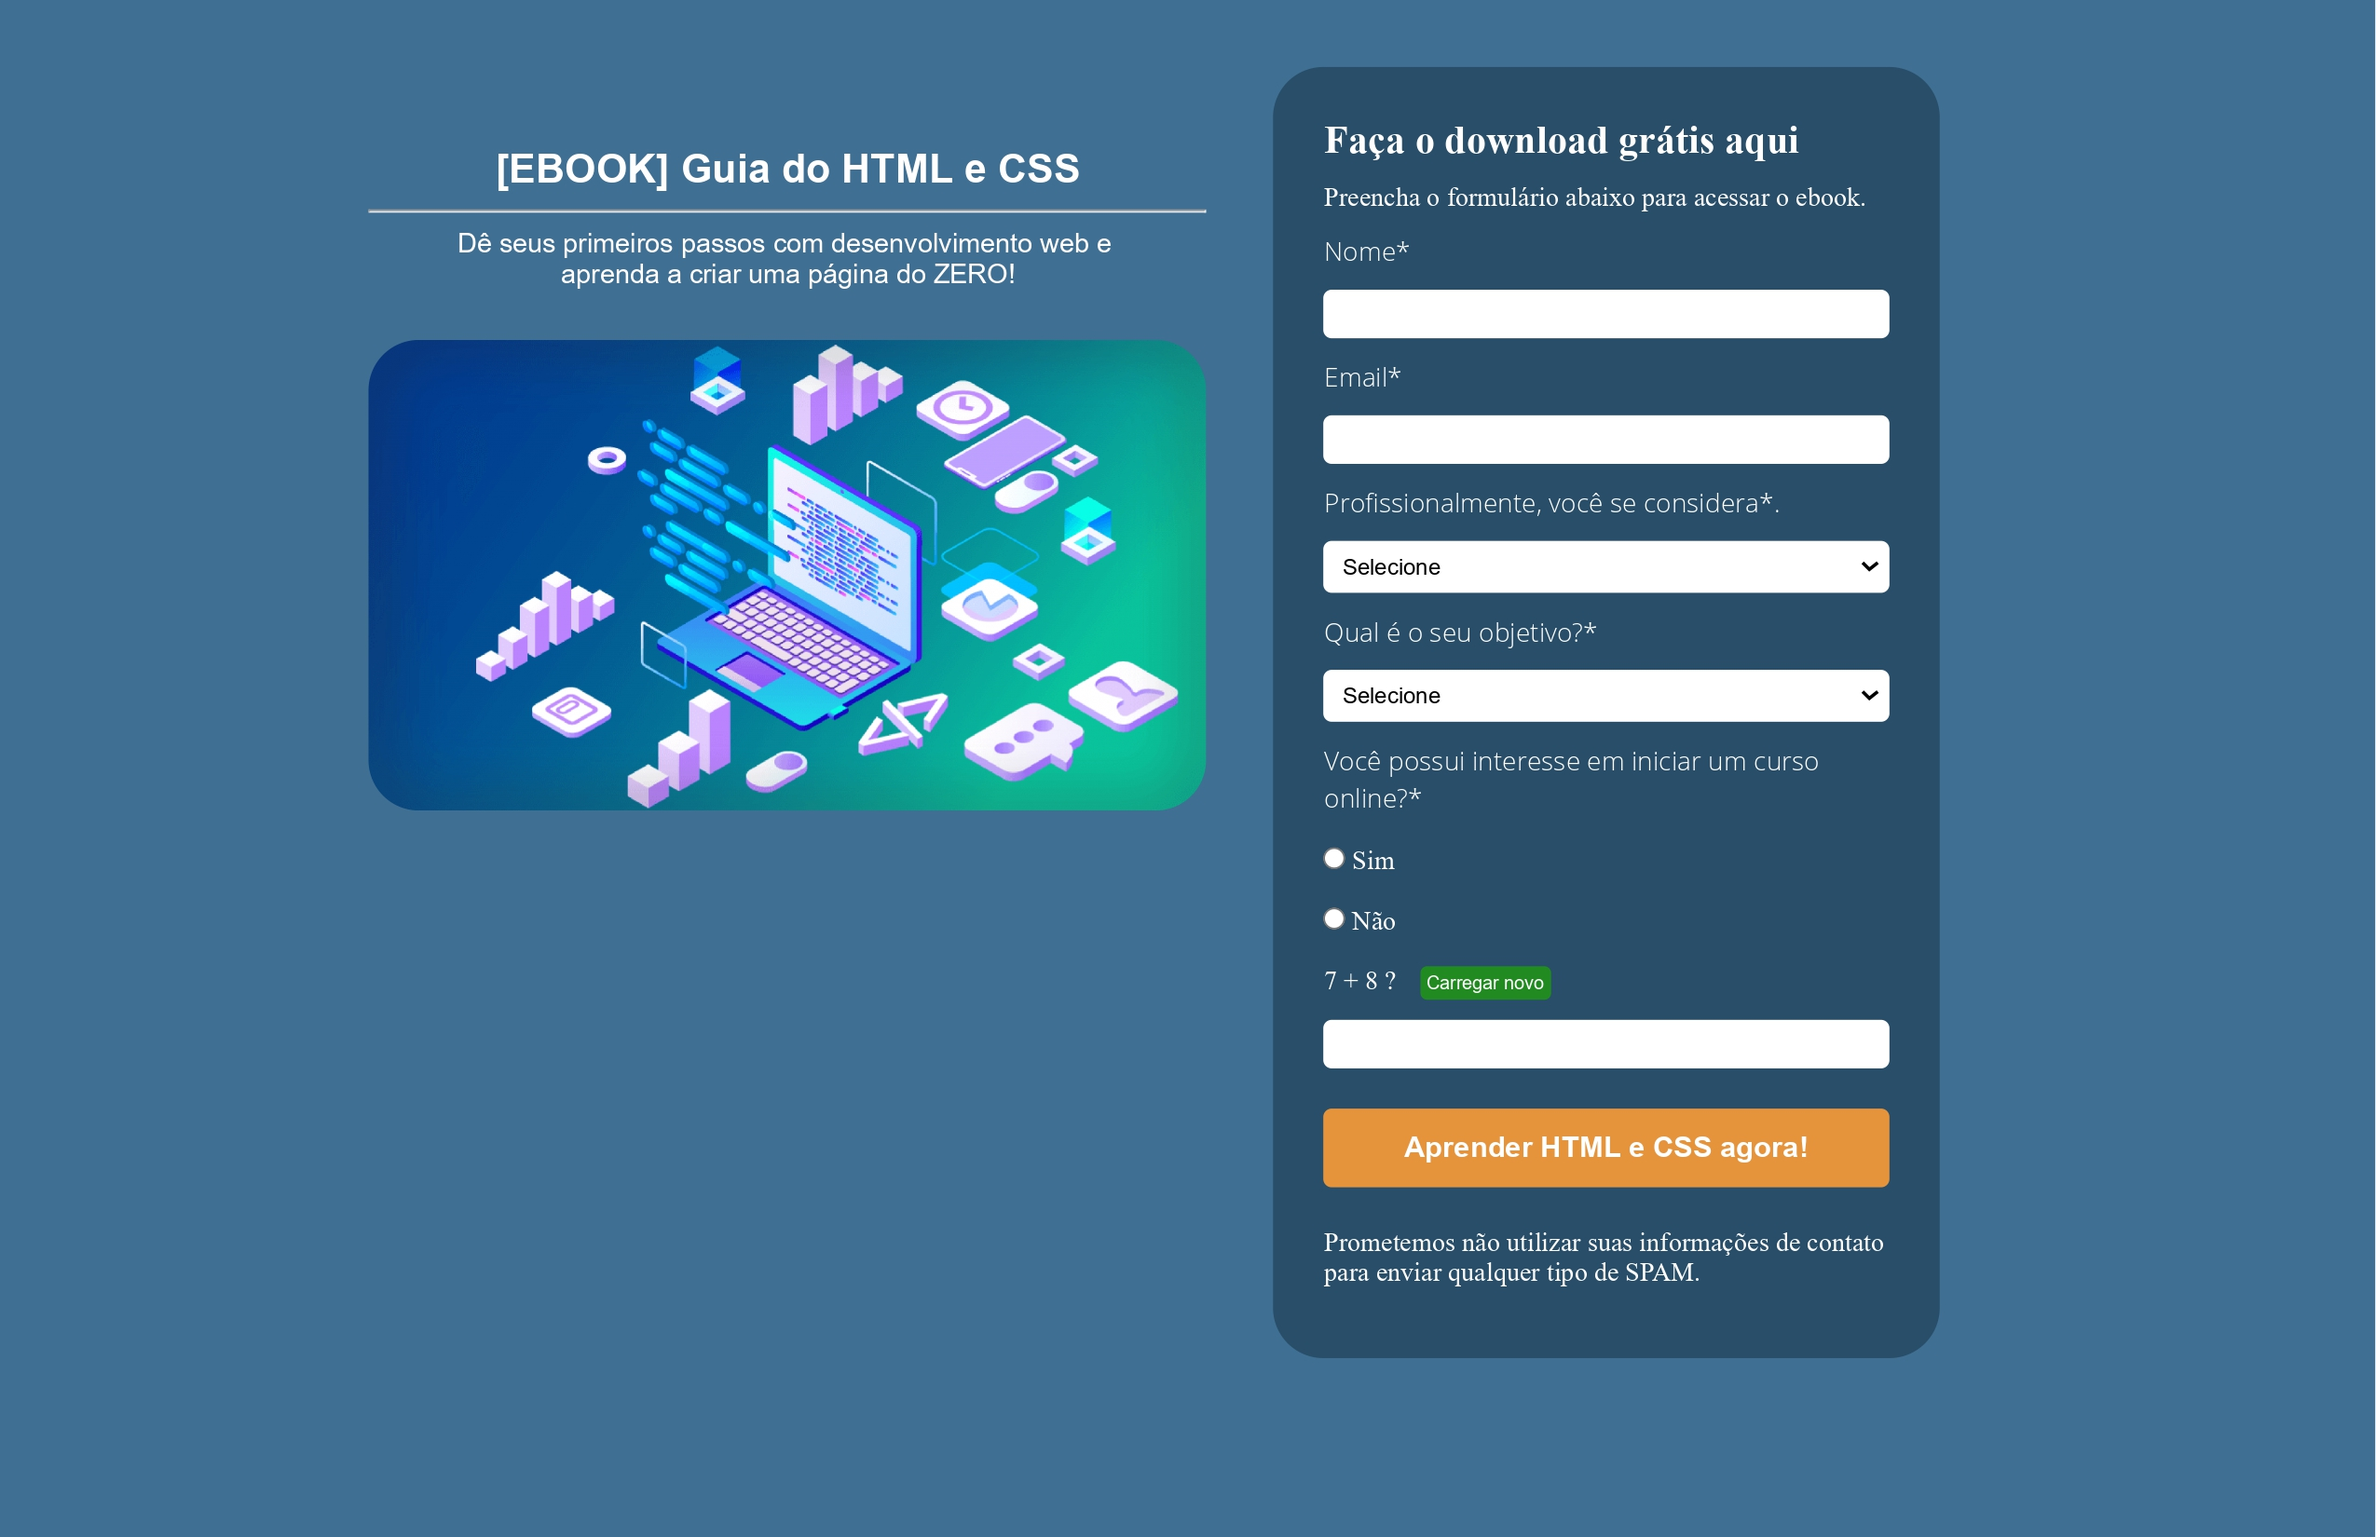
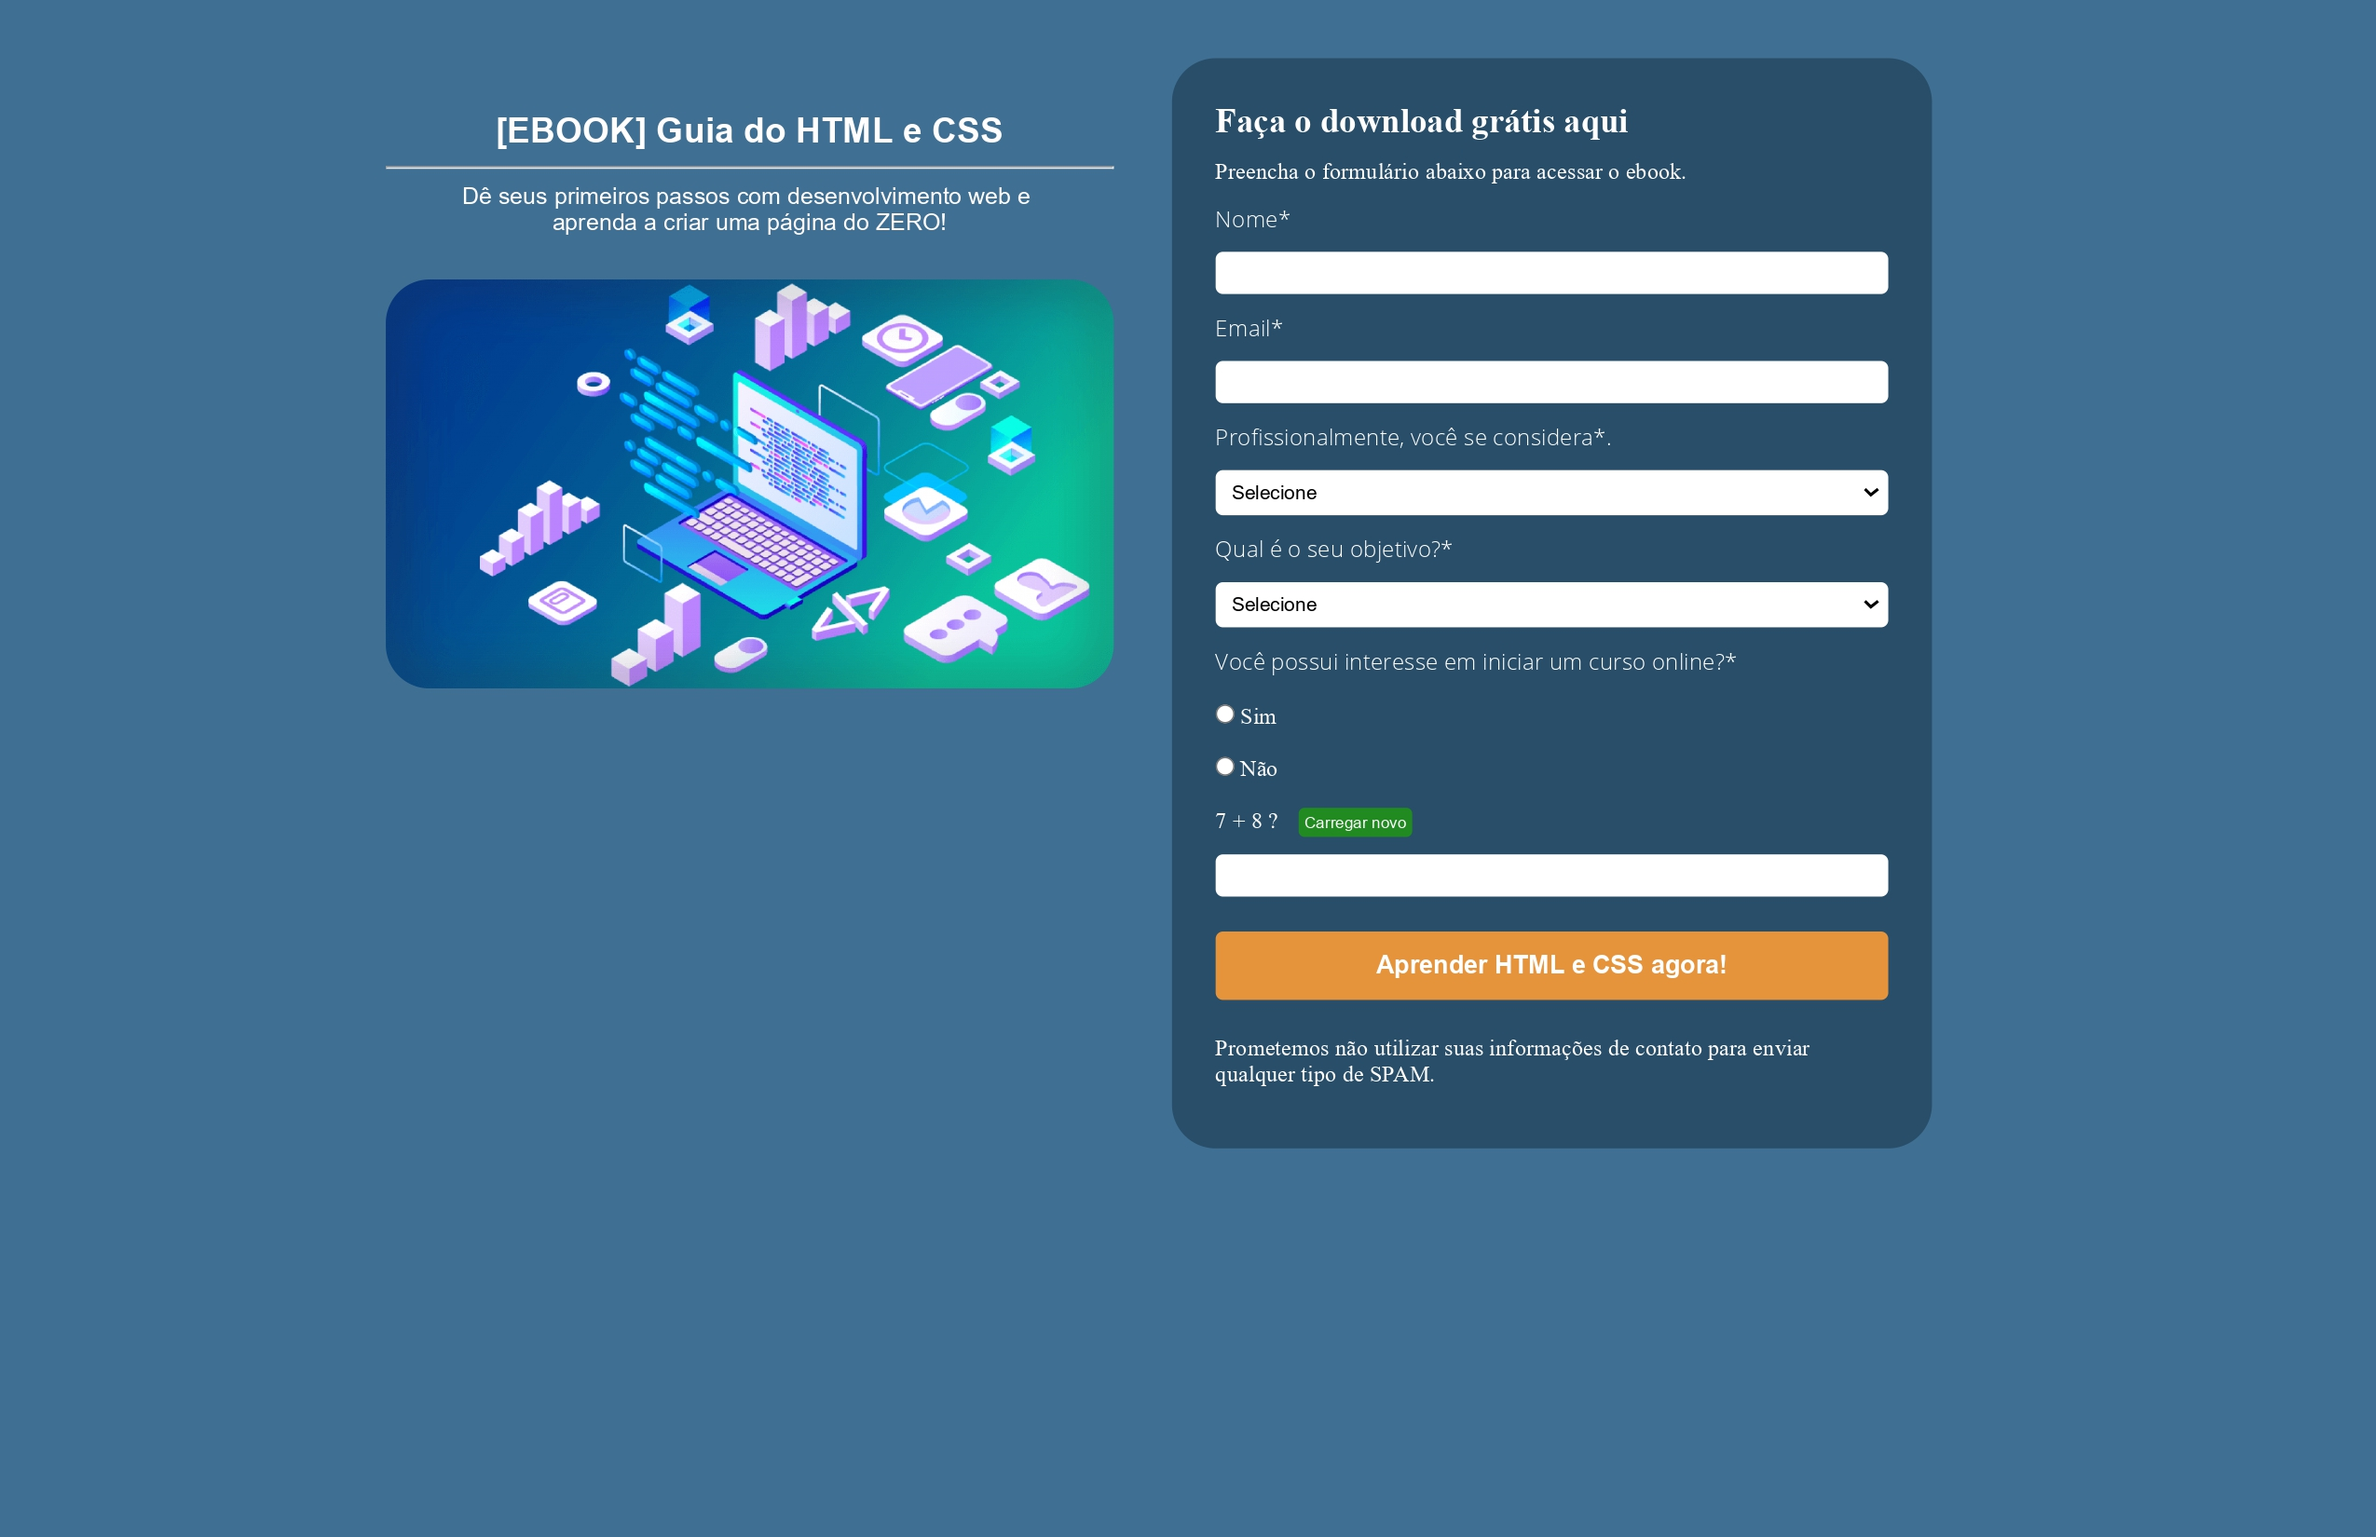
Alterando a imagem

Changed region(s): [[0.1549, 0.0309, 0.8365, 0.8964]]

diff --git a/css/style.css b/css/style.css
@@ -59,7 +59,7 @@ label{
 	padding: 30px;
 	margin: 40px;
 	border-radius: 30px;
-	width: 28%;
+	width: 32%;
 	font-size: .98em;
 }
 
